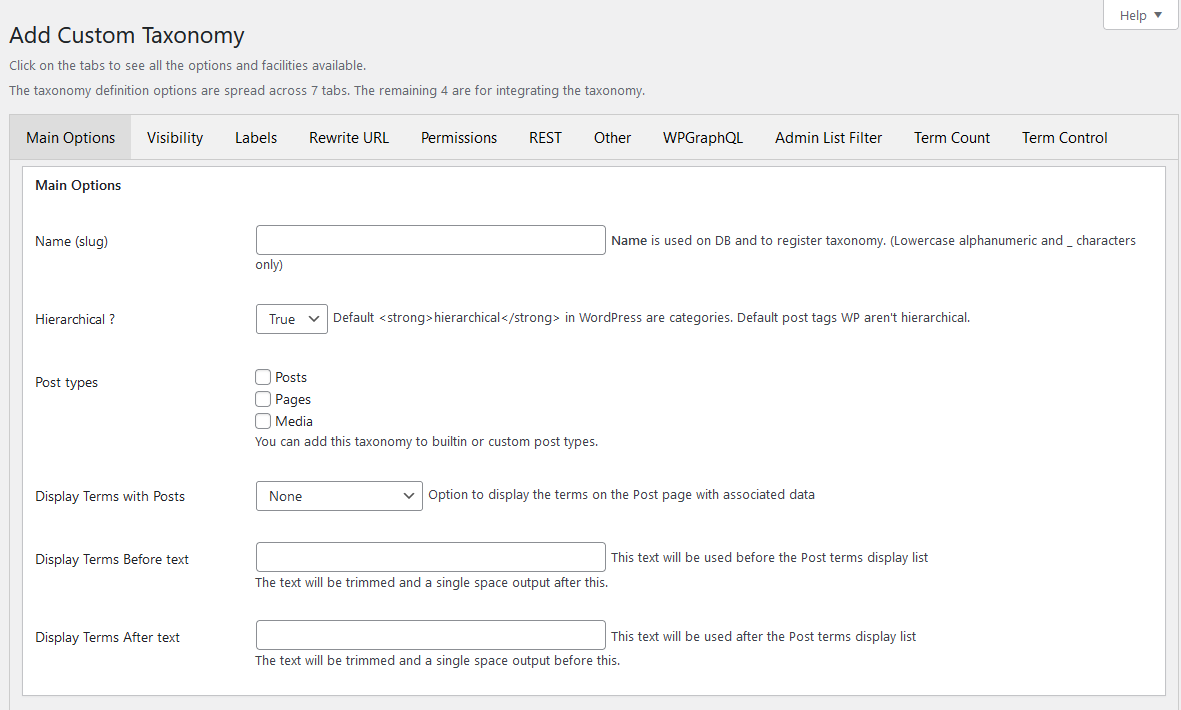
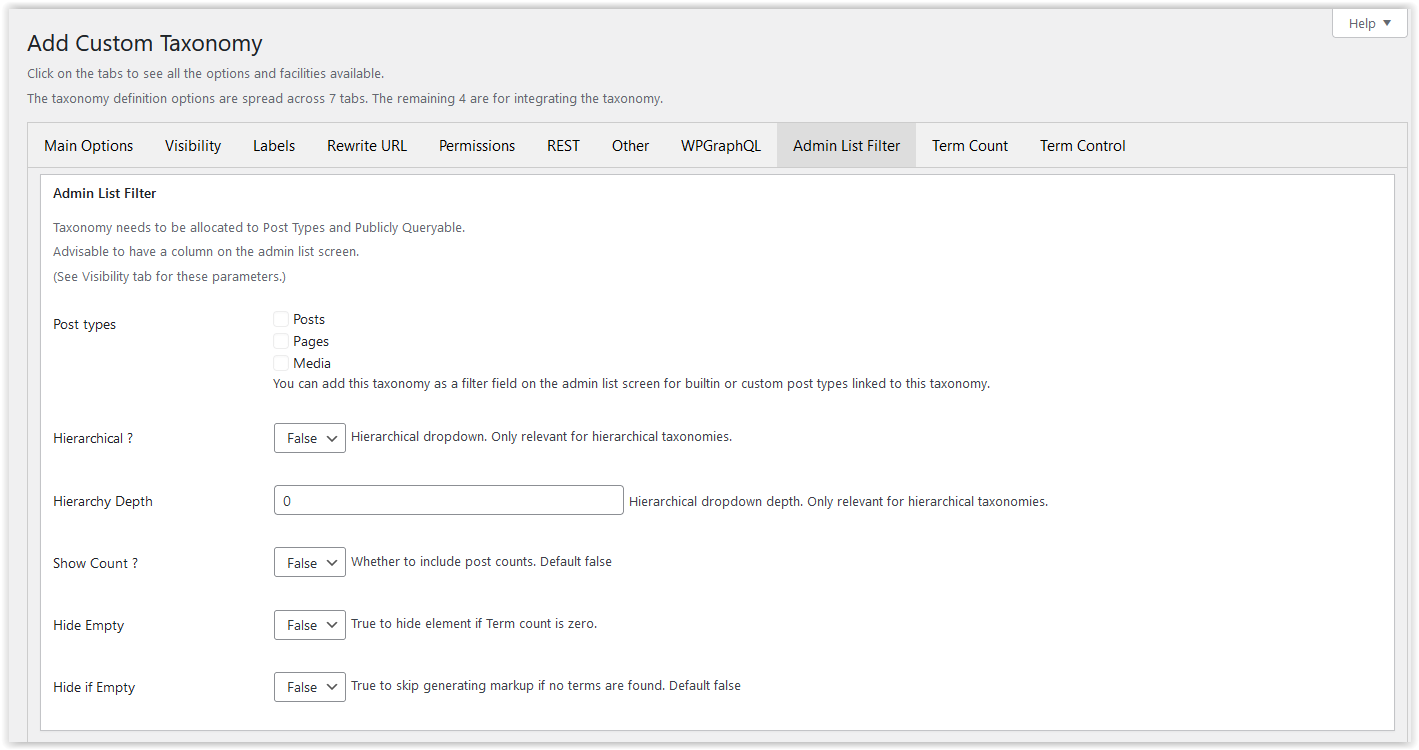
Version 2.0

diff --git a/includes/class-simpletaxonomyrefreshed-client.php b/includes/class-simpletaxonomyrefreshed-client.php
@@ -29,6 +29,12 @@ class SimpleTaxonomyRefreshed_Client {
 		add_filter( 'wp_title', array( __CLASS__, 'wp_title' ), 10, 2 );
 
 		add_action( 'restrict_manage_posts', array( __CLASS__, 'manage_filters' ) );
+		
+		// WPGraphQL for external taxonomies.
+		$options = get_option( OPTION_STAXO );
+		if ( isset( $options['externals'] ) && is_array( $options['externals'] ) ) {
+			add_action( 'registered_taxonomy', array( __CLASS__, 'registered_taxonomy' ), 10, 3 );
+		}
 	}
 
 	/**
@@ -120,6 +126,28 @@ class SimpleTaxonomyRefreshed_Client {
 		if ( isset( $options['list_order'] ) && is_array( $options['list_order'] ) ) {
 			foreach ( $options['list_order'] as $post_type => $taxos ) {
 				add_action( "manage_taxonomies_for_{$post_type}_columns", array( __CLASS__, 'reorder_admin_list' ), 10, 2 );
+			}
+		}
+	}
+
+	/**
+	 * Modify external taxonomies for WPGraphql if set.
+	 *
+	 * @since 2.0.0
+	 *
+	 * @param string       $taxonomy    Taxonomy slug.
+	 * @param array|string $object_type Object type or array of object types.
+	 * @param array        $args        Array of taxonomy registration arguments.
+	 */
+	public static function registered_taxonomy( $taxonomy, $object_type, $taxonomy_object ) {
+		$options = get_option( OPTION_STAXO );
+		if ( isset( $options['externals'] ) && is_array( $options['externals'] ) ) {
+			$externals = $options['externals'];
+			if ( isset( $externals[ $taxonomy ] ) && (bool) $externals[ $taxonomy ]['st_show_in_graphql'] ) {
+				global $wp_taxonomies;
+				$wp_taxonomies[ $taxonomy ]['show_in_graphql'] = true;
+				$wp_taxonomies[ $taxonomy ]['graphql_single']  = $externals[ $taxonomy ]['st_graphql_single'];
+				$wp_taxonomies[ $taxonomy ]['graphql_plural']  = $externals[ $taxonomy ]['st_graphql_plural'];
 			}
 		}
 	}

diff --git a/docs/addmod.md b/docs/addmod.md
@@ -1,6 +1,6 @@
 # Add/Modify a Taxonomy
 
-**Note. To define a taxonomy uses the first seven panel. There are an additional four panels used for defining additional uses of the taxonomy. These four panels are available to both custom taxonomies and external ones.**
+**Note. Defining a taxonomy uses the first seven panels. There are an additional four panels used for defining additional uses of the taxonomy. These four panels are available to both custom taxonomies and external ones.**
 
 The main purpose of the plugin is to be able to set the very many parameters available to the user when defining a Taxonomy.
 
@@ -16,6 +16,7 @@ You can move from panel to panel reviewing the parameters - but they need to be 
 
 ## Custom Main
 
+This will be titled *Add Taxonomy* when adding a taxonomy or *Modify Taxonomy* (with its name) when updating it.
 ![Main Panel](../images/AddTaxAdmin.png)
 
 The name **must** be completed in order to add the taxonomy.
@@ -26,9 +27,7 @@ The last fields *Display Terms with Posts* is not related to WordPress standard 
 
 ![Main Panel](../images/ExternalExtraOpts.png)
 
-The name **must** be completed in order to add the taxonomy.
-
-The last fields *Display Terms with Posts* is not related to WordPress standard functionality. It allows you to request that the taxonomy terms are added to posts are displayed with the post content and/or excerpt. When used, the list of terms can be prefixed and suffixed by the user-defined Before and After texts.
+These are optional entries that may be added to an existing taxonomy - and the corresponding element, e.g. WPGraphQL may already be set up. Clearly this should not then be used.
 
 ## Visibility
 
@@ -41,6 +40,8 @@ This panel contains all the fields that control how the taxonomy is used within 
 ![Labels Panel](../images/AddTaxLabl.png)
 
 There are many labels that can be used for a taxonomy, any and all can be changed here.
+
+Scroll down using the plugin to see them all. 
 
 ## Rewrite URL
 
@@ -72,9 +73,9 @@ Various other parameters are managed here.
 
 This is an optional set of parameters and is provided as a convenience to avoid user coding when WPGraphQL is installed.
 
-## Admin Filter
+## Admin List Filter
 
-![Admin Filter Panel](../images/AddTaxAdmin.png)
+![Admin List Filter Panel](../images/AddTaxAdmin.png)
 
 This is an optional set of parameters and allows the user to use the taxonomy as a dropdown filter for selected post types on the admin list screens.
 

diff --git a/docs/usage.md b/docs/usage.md
@@ -118,7 +118,19 @@ See the [example page](./example.md) for a specific example of the function usag
 
 ### Terms Merge
 
-This tool allows terms to be entered in bulk into a selected taxonomy.
+This tool merges one or more terms of a taxonomy into a single term. All uses of the deleted term(s) will be migrated to the merge term.
+
+It operates in five phases:
+
+- Select the taxonomy whose terms you wish to merge.
+
+- All terms of the taxonomy will be displayed for you to select the Destination term.
+
+- Then you select one or more Source terms to be merged into the Destination term and deleted.
+
+- The options selected are displayed for you to confirm the processing to be carried out, with all posts using the Source Term(s) will be linked to the Destination term and the Source Term(s) will be deleted.
+
+- Once processes, the results of the processing are presented and standard WordPress caches are cleared.
 
 ### Taxonomy List Order
 

diff --git a/docs/readme.md b/docs/readme.md
@@ -6,7 +6,7 @@ This plugin provides a no-code facility to manage your taxonomies - either by de
 * Tags: tags, taxonomies, custom taxonomies, taxonomy, category, categories, term conversion, conversion
 * Requires at least: 4.8
 * Stable tag: 2.0.0
-* Tested up to: 5.7
+* Tested up to: 5.8
 * License: GPLv3 or later
 * License URI: https://www.gnu.org/licenses/gpl-3.0.html
 
